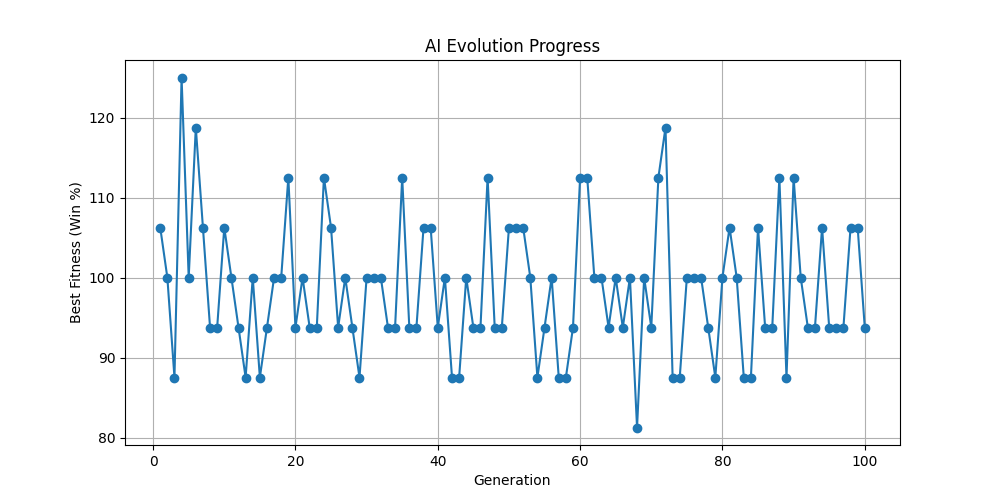
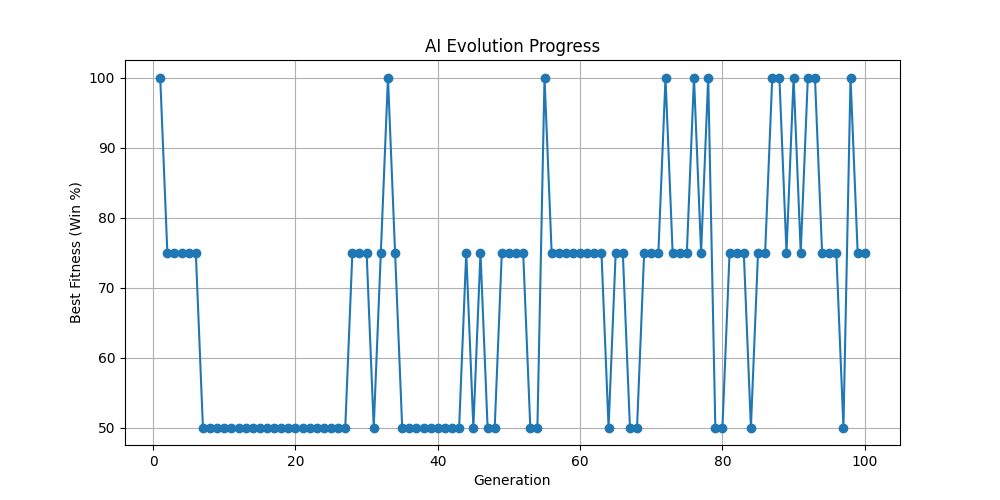
ver4

diff --git a/ga_manager.py b/ga_manager.py
@@ -1,4 +1,5 @@
 import random
+import json
 from engine import GomokuAnalyzer
 import matplotlib.pyplot as plt
 
@@ -19,40 +20,27 @@ class Individual:
 
 def play_match(player1, player2, depth=1):
     """
-    2つの個体を対戦させる（修正版）
+    2つの個体を対戦させる。
+    depth: 探索深さ（デフォルト1）
+    戻り値: 1 (player1勝利), 2 (player2勝利), 0 (引き分け)
     """
-    # 各プレイヤー専用の analyzer を作成（重みをコピー）
-    analyzer1 = GomokuAnalyzer()
-    analyzer1.weights = player1.analyzer.weights.copy()
-    analyzer1.board.fill(0)
-    
-    analyzer2 = GomokuAnalyzer()
-    analyzer2.weights = player2.analyzer.weights.copy()
-    analyzer2.board.fill(0)
-    
-    # 対戦中用の盤面（analyzer1の盤面を使用）
-    board = analyzer1.board
+    board_analyzer = player1.analyzer
+    board_analyzer.board.fill(0)
+    board_analyzer.move_history = []
     
     current_turn = 1
     for _ in range(15 * 15):
-        if current_turn == 1:
-            current_ai = analyzer1
-            # player1の重みは既に設定済み
-        else:
-            current_ai = analyzer2
-            # player2の重みは既に設定済み
+        current_ai = player1 if current_turn == 1 else player2
+        board_analyzer.weights = current_ai.analyzer.weights
         
-        r, c = current_ai.get_best_move(depth_limit=depth)
+        r, c = board_analyzer.get_best_move(depth_limit=depth)
         
         if r is not None:
-            # 両方のanalyzerの盤面を更新
-            analyzer1.put_stone(r, c, current_turn)
-            analyzer2.put_stone(r, c, current_turn)
-            
-            if analyzer1.check_win(r, c, current_turn):
+            board_analyzer.put_stone(r, c, current_turn)
+            if board_analyzer.check_win(r, c, current_turn):
                 return current_turn
         else:
-            return 0
+            return 0  # 引き分け（盤面が埋まった）
         current_turn = 3 - current_turn
     return 0
 
@@ -61,67 +49,39 @@ class Generation:
         self.individuals = [Individual() for _ in range(size)]
         self.generation_number = 1
 
-    def evaluate_all(self):
+    # 修正後のイメージ
+    def evaluate_all(self, elite=None):
         print(f"第 {self.generation_number} 世代の評価中...")
         
-        # fitness を初期化
-        for ind in self.individuals:
-            ind.fitness = 0.0
-
-        # 基準個体（初期重み）を作成
-        baseline_weights = {
-            'five': 100000,
-            'open_four': 12000,
-            'dead_four': 5000,
-            'open_three': 1500,
-            'dead_three': 200,
-            'open_two': 50,
-            'defense_weight': 1.2,
-            'fork_44': 15000,
-            'fork_43': 8000,
-            'fork_33': 3000,
-            'center_bonus': 100
-        }
-        baseline = Individual(weights=baseline_weights)
-
-        # 各AIが対戦する相手の数（自分以外の個体からランダムに選ぶ）
-        opponents_per_individual = 3
-        # 各相手との対戦回数（先後各2回 → 計4回）
-        games_per_pair = 4
-
-        total_matches = 0
-        expected_matches = len(self.individuals) * (opponents_per_individual + 1) * games_per_pair
-
-        for i, ind1 in enumerate(self.individuals):
-            # 対戦相手を選ぶ（自分以外の個体から opponents_per_individual 体）
-            others = [ind for j, ind in enumerate(self.individuals) if j != i]
-            opponents = random.sample(others, min(opponents_per_individual, len(others)))
-            # 基準個体も追加
-            opponents.append(baseline)
-
+        total_matches = 0  # 初期化
+        
+        for ind1 in self.individuals:
+            ind1.fitness = 0.0
+            others = [i for i in self.individuals if i != ind1]
+            
+            # 対戦相手を決める
+            if elite:
+                # エリート＋ランダム1人（合計2人）
+                opponents = [elite] + random.sample(others, 1)
+            else:
+                opponents = random.sample(others, 2)
+            
+            games_per_pair = 2
             for opponent in opponents:
                 for game in range(games_per_pair):
-                    # 先手後手を交互に
+                    total_matches += 1
                     if game % 2 == 0:
                         winner = play_match(ind1, opponent, depth=1)
+                        if winner == 1:
+                            ind1.fitness += 1
                     else:
                         winner = play_match(opponent, ind1, depth=1)
-
-                    if winner == 1:
-                        ind1.fitness += 1
-                    elif winner == 2:
-                        opponent.fitness += 1  # 相手のfitnessはここでは使わないが、基準個体のfitnessは更新されても無視
-                    total_matches += 1
-
-                    # 進捗表示（100試合ごと）
-                    if total_matches % 100 == 0:
-                        print(f"  試合進捗: {total_matches}/{expected_matches}")
-
-        # 勝率（%）に変換（基準個体との対戦も含めた総試合数で割る）
-        total_games_per_individual = (opponents_per_individual + 1) * games_per_pair
-        for ind in self.individuals:
-            ind.fitness = (ind.fitness / total_games_per_individual) * 100
-
+                        if winner == 2:
+                            ind1.fitness += 1
+            
+            # 勝率計算
+            ind1.fitness = (ind1.fitness / (len(opponents) * games_per_pair)) * 100
+        
         print(f"評価完了 総対戦数: {total_matches}")
 
     def evolve(self):
@@ -129,7 +89,7 @@ class Generation:
         self.individuals.sort(key=lambda x: x.fitness, reverse=True)
         
         # 上位25%（エリート）を残す（最低1体）
-        elite_count = max(1, len(self.individuals) // 4)
+        elite_count = max(1, len(self.individuals) // 10)
         next_gen = self.individuals[:elite_count]
         
         # 残りの枠を子供で埋める
@@ -146,8 +106,8 @@ class Generation:
                     child_weights[key] = parent2.analyzer.weights[key]
                 
                 # 突然変異（10%の確率で0.8～1.2倍）
-                if random.random() < 0.1:
-                    child_weights[key] *= random.uniform(0.8, 1.2)
+                if random.random() < 0.2:
+                    child_weights[key] *= random.uniform(0.5, 1.5)
             
             next_gen.append(Individual(weights=child_weights))
         
@@ -171,13 +131,15 @@ def save_fitness_graph(history):
 if __name__ == "__main__":
     gen = Generation(size=16)  # 個体数16でスタート
     history = []
+    current_best_ind = None
 
     for i in range(100):  # 100世代
-        gen.evaluate_all()
+        gen.evaluate_all(elite=current_best_ind)
         
         gen.individuals.sort(key=lambda x: x.fitness, reverse=True)
         best_ind = gen.individuals[0]
-        
+        current_best_ind = gen.individuals[0]
+
         print(f"--- 第 {i+1} 世代 終了 ---")
         print(f"最高勝率: {best_ind.fitness:.2f}%")
         
@@ -190,7 +152,8 @@ if __name__ == "__main__":
         gen.evolve()
 
     # 最良個体の重みを保存
-    with open("best_weights.txt", "w") as f:
-        f.write(str(history[-1]['weights']))
+    with open("best_weights.txt", "w", encoding="utf-8") as f:
+    # indent=4 をつけると綺麗に改行されます
+        json.dump(history[-1]['weights'], f, indent=4)
     
     save_fitness_graph(history)

diff --git a/evaluate_evolution.py b/evaluate_evolution.py
@@ -1,4 +1,5 @@
 # evaluate_evolution.py
+import json
 from ga_manager import Individual, play_match
 from engine import GomokuAnalyzer
 import ast
@@ -9,11 +10,12 @@ def main():
     default_ind = Individual(weights=default.weights)
     
     # 進化個体
-    with open("best_weights_ver3.txt", "r") as f:
-        best = ast.literal_eval(f.read())
+    with open("best_weights_ver4.txt", "r") as f:
+        best = json.load(f)
     best_ind = Individual(weights=best)
     
     # 対戦実行
+    print("進化個体と初期個体の対戦を開始...")
     results = {"best_win": 0, "default_win": 0, "draw": 0}
     
     for i in range(100):  # 100回対戦

diff --git a/engine.py b/engine.py
@@ -241,7 +241,7 @@ class GomokuAnalyzer:
             # 中央性ボーナス
             center = self.size // 2
             distance = abs(r - center) + abs(c - center)
-            center_bonus = max(0, 10 - distance) * 100
+            center_bonus = max(0, 10 - distance) * self.weights.get('center_bonus', 100)
             
             # 既存の脅しを活かすボーナス
             continuity_bonus = self.continuity_bonus(r, c, for_player)
